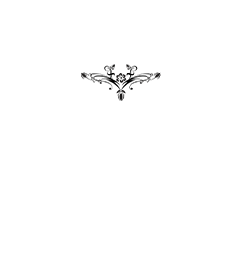
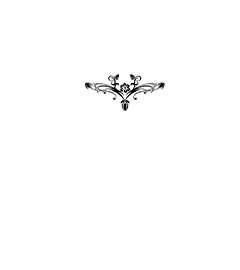
feat: 增加胸骨纹身，修正图片边缘，修正图片路径，迷你裤

Changed region(s): [[0.3208, 0.237, 0.7, 0.4148]]

diff --git a/packages/mod/src/components/衣服和装饰/迷你裤.js b/packages/mod/src/components/衣服和装饰/迷你裤.js
@@ -1,0 +1,87 @@
+import AssetManager from "@mod-utils/AssetManager";
+
+/** @type {CustomAssetDefinition} */
+const assetdef = {
+    Name: "迷你裤_Luzi",
+    Top: 400,
+    DefaultColor: ["#727B91", "#FFD1A3", "#88665A"],
+    PoseMapping: {
+        KneelingSpread: "KneelingSpread",
+        Hogtied: PoseType.HIDE,
+        AllFours: PoseType.HIDE,
+    },
+    Layer: [
+        {
+            Name: "裤子",
+            Priority: 36,
+            ParentGroup: "BodyLower",
+            PoseMapping: {
+                KneelingSpread: "KneelingSpread",
+                Hogtied: PoseType.HIDE,
+                AllFours: PoseType.HIDE,
+            },
+        },
+        {
+            Name: "磨损",
+            Priority: 36,
+            ParentGroup: "BodyLower",
+            PoseMapping: {
+                KneelingSpread: "KneelingSpread",
+                Hogtied: PoseType.HIDE,
+                AllFours: PoseType.HIDE,
+            },
+        },
+        {
+            Name: "扣子",
+            Priority: 36,
+            ParentGroup: null,
+            PoseMapping: {
+                Hogtied: PoseType.HIDE,
+                AllFours: PoseType.HIDE,
+            },
+        },
+    ],
+};
+
+/** @type {Translation.Entry} */
+const translation = {
+    CN: "迷你热裤",
+    EN: "Mini Hotpants",
+};
+
+export default function () {
+    AssetManager.addAsset(
+        "ClothLower",
+        {
+            ...assetdef,
+            Left: {
+                [PoseType.DEFAULT]: 100,
+                KneelingSpread: 190,
+            },
+        },
+        undefined,
+        translation
+    );
+    AssetManager.addAsset("Panties", { ...assetdef, Left: 100 }, undefined, translation);
+
+    /** @type {Record<string,string>} */
+    const mapping = {};
+    mapping[
+        `Assets/Female3DCG/Panties/Preview/${assetdef.Name}.png`
+    ] = `Assets/Female3DCG/ClothLower/Preview/${assetdef.Name}.png`;
+    assetdef.Layer.forEach((layer) => {
+        (layer.ParentGroup ? ["Small", "Normal", "Large", "XLarge"].map((s) => `_${s}`) : [""]).forEach((size) => {
+            [
+                ...Object.values(layer.PoseMapping)
+                    .filter((pose) => pose !== PoseType.HIDE)
+                    .map((p) => `/${p}`),
+                "",
+            ].forEach((pose) => {
+                mapping[
+                    `Assets/Female3DCG/Panties${pose}/${assetdef.Name}${size}_${layer.Name}.png`
+                ] = `Assets/Female3DCG/ClothLower${pose}/${assetdef.Name}${size}_${layer.Name}.png`;
+            });
+        });
+    });
+    AssetManager.addImageMapping(mapping);
+}

diff --git a/packages/mod/src/components/衣服和装饰/杂七杂八.js b/packages/mod/src/components/衣服和装饰/杂七杂八.js
@@ -319,9 +319,12 @@ export default function () {
     AssetManager.addImageMapping(
         clothLCSetting.reduce((pv, cv, idx) => {
             ["Panties", "BodyMarkings"].forEach((group) => {
-                ["Screens/Inventory", "Assets/Female3DCG"].forEach((prefix) => {
-                    pv[`${prefix}/${group}/淫纹_Luzi/${cv.Name}.png`] = `${prefix}/ItemPelvis/淫纹_Luzi/t${idx}.png`;
-                });
+                pv[
+                    `Screens/Inventory/${group}/淫纹_Luzi/${cv.Name}.png`
+                ] = `Screens/Inventory/ItemPelvis/淫纹_Luzi/t${idx}.png`;
+                pv[
+                    `Assets/Female3DCG/${group}/淫纹_Luzi_${cv.Name}.png`
+                ] = `Assets/Female3DCG/ItemPelvis/淫纹_Luzi_${cv.Src}.png`;
             });
             return pv;
         }, {})

diff --git a/packages/mod/src/components/衣服和装饰/大纹身.js b/packages/mod/src/components/衣服和装饰/大纹身.js
@@ -50,6 +50,34 @@ const LayerSettings = [
         ConfigKey: "SFSb",
     },
     {
+        Name: "梵花胸骨3",
+        Priority: 12,
+        Left: 130,
+        Top: 200,
+        ParentGroup: "BodyUpper",
+        BlendingMode: "source-atop",
+        DefaultColor: "Default",
+        ConfigKey: "SFSc",
+    },
+    {
+        Name: "石蒜1左",
+        Priority: 12,
+        Left: 130,
+        Top: 200,
+        BlendingMode: "source-atop",
+        DefaultColor: "Default",
+        ConfigKey: "LaL",
+    },
+    {
+        Name: "石蒜1右",
+        Priority: 12,
+        Left: 130,
+        Top: 200,
+        BlendingMode: "source-atop",
+        DefaultColor: "Default",
+        ConfigKey: "LaR",
+    },
+    {
         Name: "部落右胸",
         Priority: 12,
         Left: 130,

diff --git a/packages/mod/src/components/衣服和装饰/人偶.js b/packages/mod/src/components/衣服和装饰/人偶.js
@@ -8,6 +8,7 @@ const asset = {
     Top: 0,
     Left: 0,
     AllowLock: true,
+    DrawLocks: false,
     Difficulty: 25,
     Hide: ["Hands", "BodyLower", "BodyUpper"],
     Layer: [
